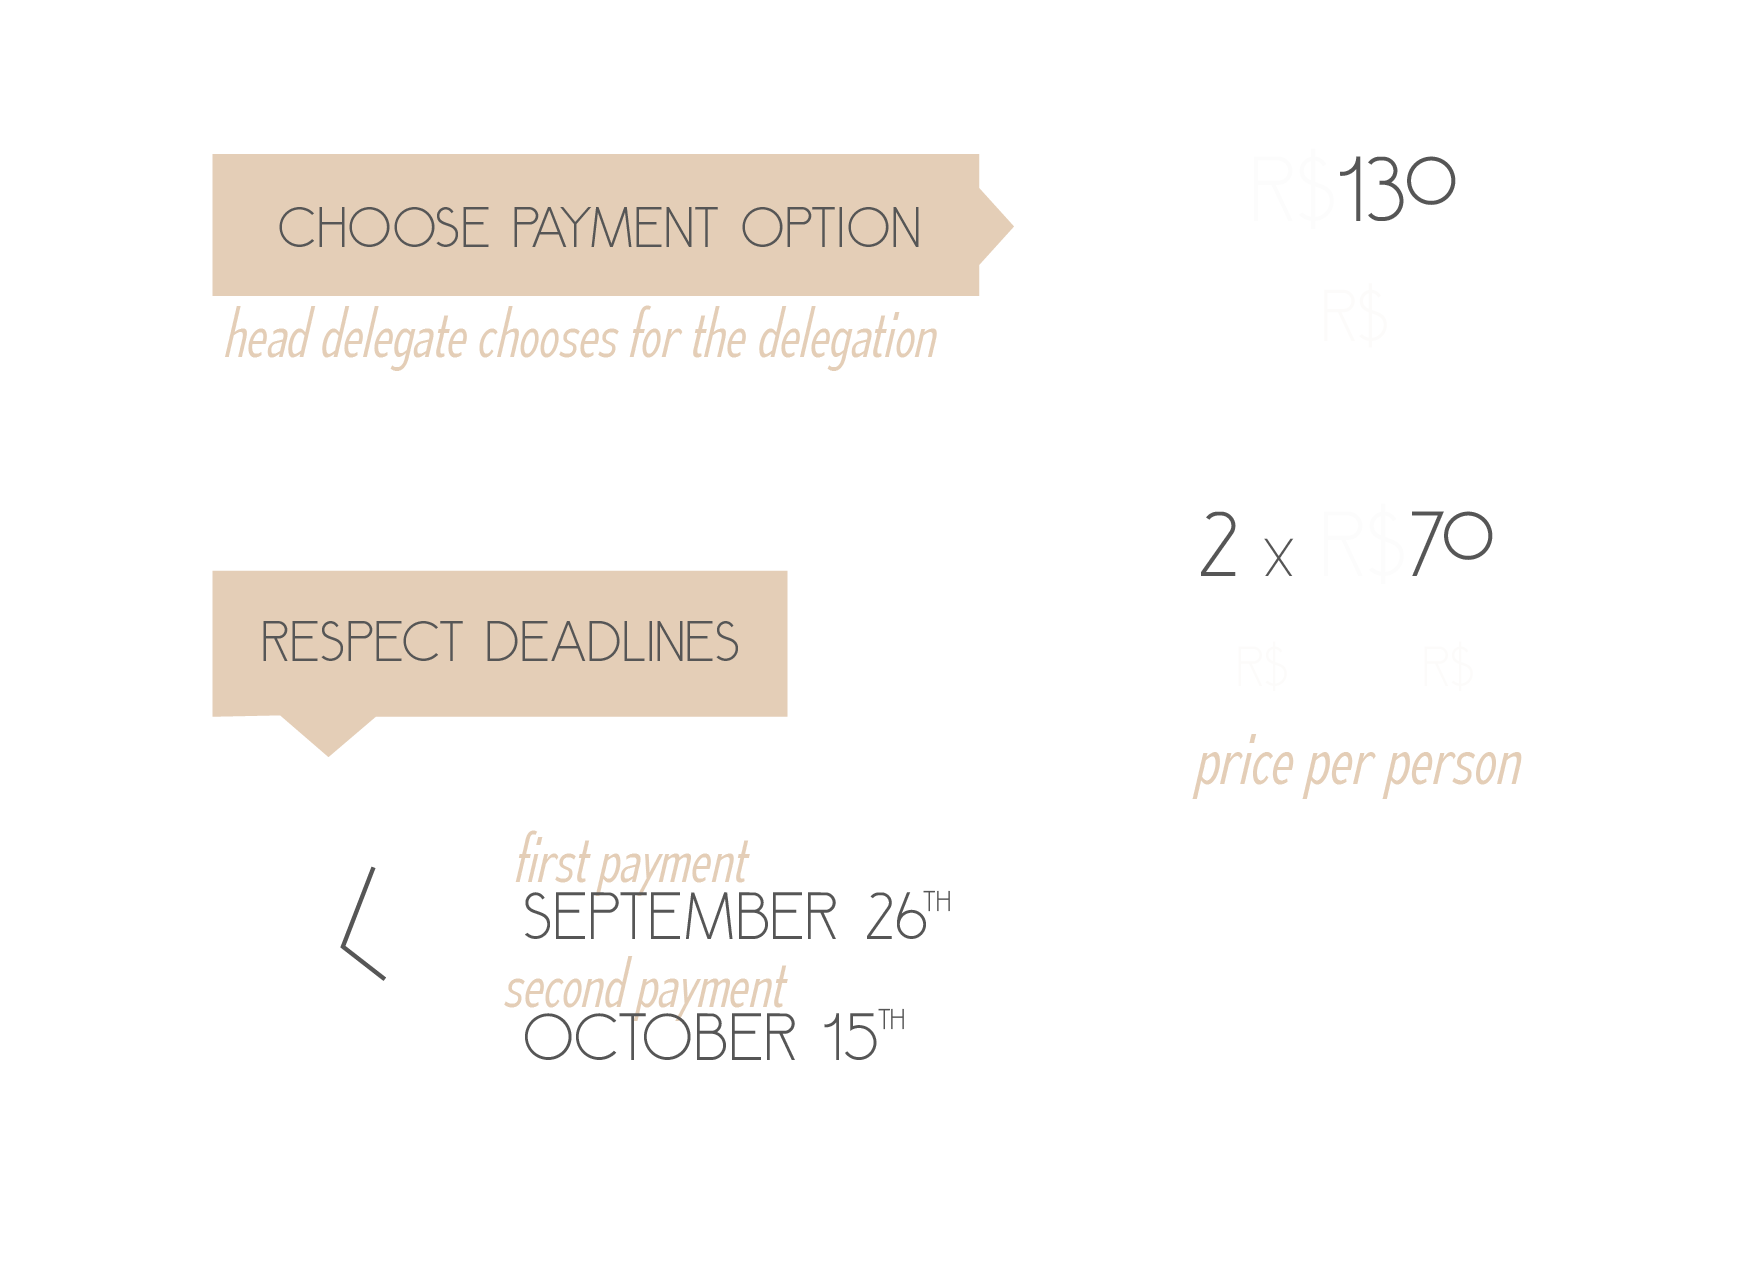
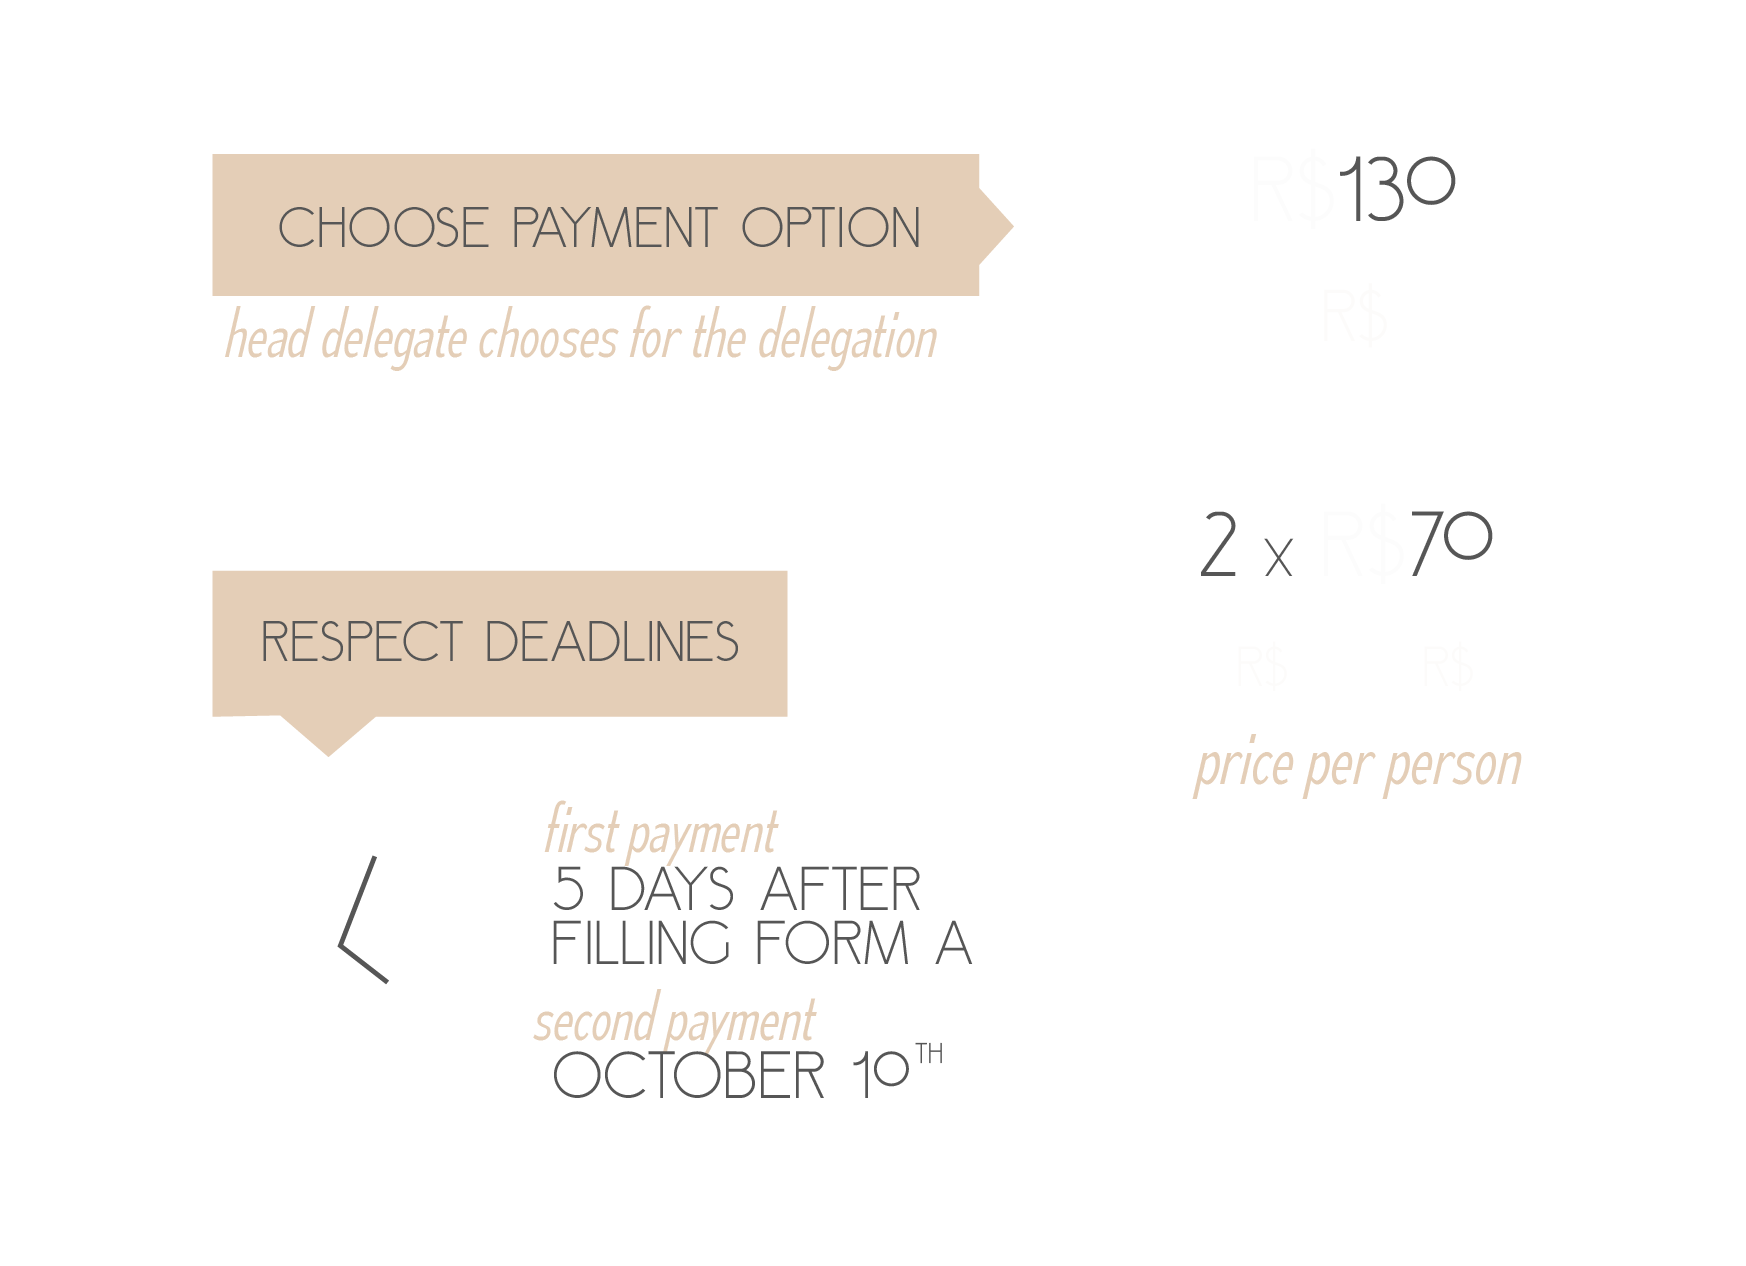
[FIX] Payment deadline

Changed region(s): [[0.2784, 0.6469, 0.5567, 0.8626], [0.1856, 0.6777, 0.2165, 0.7393]]

diff --git a/css/main.css b/css/main.css
@@ -207,7 +207,6 @@ Apply Section
 
 .step-box {
 	border: 1px solid #FFFFFF;
-	max-width: 90%;
 	padding: 10px;
 }
 
@@ -221,7 +220,7 @@ Apply Section
 }
 
 .step-box p:nth-of-type(2) {
-	margin-left: 250px;
+	margin-left: 230px;
 }
 
 .beige a {

diff --git a/apply/register.php b/apply/register.php
@@ -55,11 +55,11 @@
         <p>Total fees per delegate for regular registration:</p>
         <div class="step-box">
             <p>Full amount:<br/>R$ 130.00</p>
-            <p>Payment deadline:<br/>September 26th</p>
+            <p>Payment deadline:<br/>5 days after filling Form A</p>
         </div>
         <div class="step-box">
             <p>Two installments:<br/>R$ 140.00 (2 x R$ 70.00)</p>
-            <p>Payment deadlines:<br/>September 26th and October 15th</p>
+            <p>Payment deadlines:<br/>5 days after filling Form A and October 10th</p>
         </div>
         <p>When the full amount or the first installment of the payment is received by the Staff, the Head Delegate will receive a confirmation e-mail. Another confirmation e-mail will be sent once the second installment is paid.</p>
         <p class="step-note">NOTE: delegations registering after the regular registration period will have to pay higher fees in order to participate in UFRGSMUN.</p>
